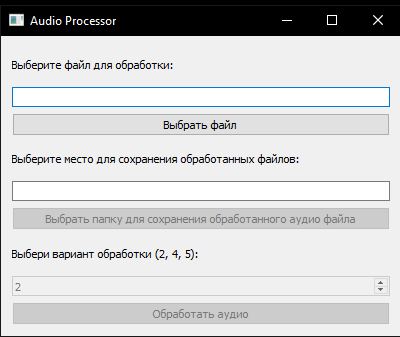
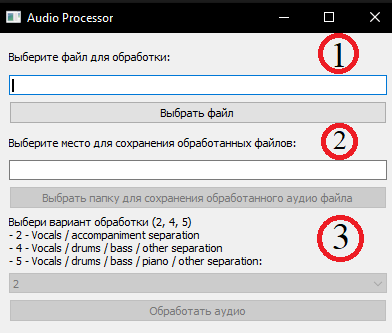
Обновление визуала и Readme

diff --git a/AI.py b/AI.py
@@ -1,6 +1,6 @@
 import sys
 import subprocess
-from PyQt5.QtWidgets import QApplication, QWidget, QLabel, QPushButton, QVBoxLayout, QSpinBox, QFileDialog, QMessageBox, QLineEdit
+from PyQt5.QtWidgets import QApplication, QWidget, QLabel, QPushButton, QVBoxLayout, QSpinBox, QFileDialog, QMessageBox, QLineEdit, QComboBox  
 from PyQt5.QtCore import QDir, QStandardPaths
 
 class AudioProcessorApp(QWidget):
@@ -32,7 +32,7 @@ class AudioProcessorApp(QWidget):
                 self.audio_treatment_line.setEnabled(True)
                 self.output_treatment_button.setEnabled(True)
                 self.process_button.setEnabled(True)
-                self.treatment_line.setEnabled(True)
+                self.treatment_combo.setEnabled(True)
             else:
                 QMessageBox.critical(self, "Ошибка", "Папка для сохранения обработанных файлов не выбрана.")
         else:
@@ -48,7 +48,7 @@ class AudioProcessorApp(QWidget):
             QMessageBox.warning(self, "Предупреждение", "Выберите папку для сохранения файла.")
             return
 
-        treatment = str(self.treatment_line.value())
+        treatment = self.treatment_combo.currentText()  # Использование текущего выбранного значения из комбобокса
         command = f'spleeter separate -p spleeter:{treatment}stems -o "{self.output_folder_path}" "{self.audio_file_path}"'
         process = subprocess.Popen(command, shell=True, stdout=subprocess.PIPE, stderr=subprocess.PIPE, universal_newlines=True)
         output, error = process.communicate()
@@ -78,6 +78,12 @@ class AudioProcessorApp(QWidget):
         self.treatment_line.setValue(int(self.treatment))
         self.treatment_line.setEnabled(False)
 
+        self.treatment_label = QLabel("Выбери вариант обработки (2, 4, 5) \n- 2 - Vocals / accompaniment separation \n- 4 - Vocals / drums / bass / other separation \n- 5 - Vocals / drums / bass / piano / other separation:")
+        self.treatment_combo = QComboBox()  # Замена QSpinBox на QComboBox
+        self.treatment_combo.addItems(["2", "4", "5"])  # Добавление вариантов обработки
+        self.treatment_combo.setCurrentText(self.treatment)  # Установка значения по умолчанию
+        self.treatment_combo.setEnabled(False)
+
         self.audio_treatment_label = QLabel("Выберите место для сохранения обработанных файлов:")
         self.audio_treatment_line = QLineEdit() 
         self.audio_treatment_line.setEnabled(False)  
@@ -96,7 +102,8 @@ class AudioProcessorApp(QWidget):
         layout.addWidget(self.output_treatment_button)
 
         layout.addWidget(self.treatment_label)
-        layout.addWidget(self.treatment_line)
+        layout.addWidget(self.treatment_combo)
+        
         layout.addWidget(self.process_button)
 
         self.setLayout(layout)

diff --git a/README.md b/README.md
@@ -6,13 +6,6 @@
 ## Оглавление
 [Требования](#Требование)  
 [Использование](#Использование)  
-- Для того, чтобы использовать альфа версию продукта перейдите в папку dist в котором находится AI.exe.
-- После запуска вы увидете маленькое окно в котором на данный момент есть "Выбор файла" который будет обрабатываться, "Выбор папки" куда будет сохранятся обработка, так же есть вариант обработки, который можно менять (2, 4 и 5), где 
-- 2 - Vocals / accompaniment separation
-- 4 - Vocals / drums / bass / other separation
-- 5 - Vocals / drums / bass / piano / other separation
-![Пример программы](Readme/alpha1.png)
-
 [В планах](#В_планах)  
 [Требование](#Требования)  
 ## Инструменты
@@ -23,6 +16,22 @@
 - pydub - соединение изменённого вокала и минуса
 - PyQt - создание полноценного GUI 
 ## Использование
+- Для того, чтобы использовать альфа-версию продукта перейдите в папку dist в котором находится AI.exe.
+![Нужная папка](Readme/dist.png)
+![AI.exe](Readme/AI.png)
+- После запуска вы увидите маленькое окно в котором на данный момент есть "Выбор файла" (1) который будет обрабатываться, "Выбор папки" (2) куда будет сохранятся обработка, так же есть варианты обработки (3), которые можно менять (2, 4 и 5), где 
+- 2 - Vocals / accompaniment separation
+- 4 - Vocals / drums / bass / other separation
+- 5 - Vocals / drums / bass / piano / other separation
+![Пример программы](Readme/alpha1.png)
+- После нажатия на кнопку "Выбрать файл" (1) появится проводник в котором нужно выбрать желаемый файл для обработки (Для примера был выбран файл - Цой.mp3).
+![Пример программы](Readme/Choice.png)
+- После выбора вы сумеете указать папку, где будет создана папка с обработанной музыкой (По умолчанию это "Рабочий стол").
+- Следующий шаг - выбрать вариант обработки (По умолчанию стоит 2-о1 вариант).
+- При нажатии на кнопку "Обработать аудио", программа начнёт разделять аудиофайл на компоненты, которые вы выбрали в прошлом пункте. 
+## !Если программа зависла, ничего не трогайте, идёт обработка, которая займёт от 1 до 4 минут!
+- В конце работы вы получите папку, в которой будет разделённый аудиофайл.
+
 ## В планах
 - [ ] Установка всех зависимостей
     - [x] spleeter
